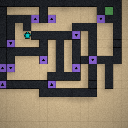
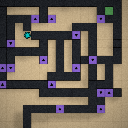
foo

Changed region(s): [[0.0938, 0.625, 0.9688, 1.0], [0.1875, 0.25, 0.25, 0.3125]]

diff --git a/public/maze-engine.js b/public/maze-engine.js
@@ -2461,6 +2461,44 @@
       );
     }
 
+    function weightlessClusterShouldContinueSliding(
+      state,
+      members,
+      gateState,
+      orangeButtonsPressed
+    ) {
+      const memberSet = new Set(members);
+      let hasIceSlideContact = false;
+
+      for (const member of members) {
+        const x = state.actorX[member];
+        const y = state.actorY[member];
+        const elevation = actorElevation(state, member);
+
+        if (isIceOrHole(state, x, y, elevation, gateState, orangeButtonsPressed)) {
+          hasIceSlideContact = true;
+          continue;
+        }
+
+        if (terrainBlocksOnlyByIceSlope(state, x, y, elevation, gateState, orangeButtonsPressed)) {
+          hasIceSlideContact = true;
+          continue;
+        }
+
+        if (
+          terrainSupportsElevation(state, x, y, elevation, gateState, orangeButtonsPressed) ||
+          actorSupportSurfaceHeightsAt(state, x, y, memberSet, true).includes(elevation)
+        ) {
+          return false;
+        }
+      }
+
+      return (
+        hasIceSlideContact ||
+        weightlessClusterHasIceSlopeTransit(state, members, gateState, orangeButtonsPressed)
+      );
+    }
+
     function weightlessClusterStep(
       state,
       members,
@@ -3072,24 +3110,7 @@
           break;
         }
 
-        if (
-          !members.every((member) =>
-            isIceOrHole(
-              state,
-              state.actorX[member],
-              state.actorY[member],
-              actorElevation(state, member),
-              gateState,
-              orangeButtonsPressed
-            )
-          ) &&
-          !weightlessClusterHasIceSlopeTransit(
-            state,
-            members,
-            gateState,
-            orangeButtonsPressed
-          )
-        ) {
+        if (!weightlessClusterShouldContinueSliding(state, members, gateState, orangeButtonsPressed)) {
           break;
         }
       }
@@ -4455,6 +4476,35 @@
 
           if ((originalElevations[member] || 0) !== toElevation || shouldFallIntoHole) {
             const moveRecord = ensureDynamicMove(member, toElevation);
+
+            if (
+              !shouldFallIntoHole &&
+              Array.isArray(moveRecord.path) &&
+              moveRecord.path.length > 0
+            ) {
+              const pathEnd = moveRecord.path[moveRecord.path.length - 1];
+
+              if (
+                pathEnd &&
+                pathEnd.x === state.actorX[member] &&
+                pathEnd.y === state.actorY[member] &&
+                pathEnd.elevation !== toElevation
+              ) {
+                if (typeof moveRecord.pathEndElevation !== "number") {
+                  moveRecord.pathEndElevation = pathEnd.elevation;
+                }
+
+                appendPathPoints(moveRecord.path, [
+                  {
+                    x: state.actorX[member],
+                    y: state.actorY[member],
+                    elevation: toElevation
+                  }
+                ]);
+                moveRecord.pathControlsElevation = true;
+              }
+            }
+
             moveRecord.toRemoved = shouldFallIntoHole;
           }
 

diff --git a/tests/maze-engine.test.js b/tests/maze-engine.test.js
@@ -674,7 +674,60 @@ function createState(playData) {
     { x: 2, y: 0, elevation: 2 },
     { x: 3, y: 0, elevation: 2 },
     { x: 4, y: 0, elevation: 2 },
-    { x: 5, y: 0, elevation: 2 }
+    { x: 5, y: 0, elevation: 2 },
+    { x: 5, y: 0, elevation: 1 }
+  ]);
+  assert.equal(boxMoves[0].pathEndElevation, 2);
+}
+
+{
+  const terrain = [[
+    wallStack(1),
+    wallStack(1),
+    iceBlockLayer(0),
+    iceBlockLayer(0),
+    iceSlopeOnIceBlockLayer("right", 1),
+    {
+      type: "ice_block",
+      layers: [
+        { type: "ice_block", elevation: 0 },
+        { type: "ice_block", elevation: 1 }
+      ]
+    },
+    iceBlockLayer(0),
+    iceBlockLayer(0),
+    iceBlockLayer(0),
+    iceBlockLayer(0)
+  ]];
+  const { engine, state } = createState({
+    width: 10,
+    height: 1,
+    terrain,
+    actors: [
+      { type: "player", x: 0, y: 0, elevation: 1, removed: false },
+      { type: "weightless_box", groupId: "M0", x: 1, y: 0, elevation: 1, removed: false },
+      { type: "weightless_box", groupId: "M0", x: 2, y: 0, elevation: 1, removed: false },
+      { type: "weightless_box", groupId: "M0", x: 3, y: 0, elevation: 1, removed: false }
+    ]
+  });
+
+  const result = engine.move(state, 1, 0);
+  const boxMoves = result.moves.filter((move) => move.actorType === "weightless_box");
+
+  assert.equal(result.moved, true);
+  assert.deepEqual(boxMoves.map((move) => [move.toX, move.toElevation]), [
+    [6, 1],
+    [7, 1],
+    [8, 1]
+  ]);
+  assert.deepEqual(boxMoves[0].path, [
+    { x: 1, y: 0, elevation: 1 },
+    { x: 2, y: 0, elevation: 2 },
+    { x: 3, y: 0, elevation: 2 },
+    { x: 4, y: 0, elevation: 2 },
+    { x: 5, y: 0, elevation: 2 },
+    { x: 6, y: 0, elevation: 2 },
+    { x: 6, y: 0, elevation: 1 }
   ]);
   assert.equal(boxMoves[0].pathEndElevation, 2);
 }
@@ -717,7 +770,8 @@ function createState(playData) {
     { x: 2, y: 0, elevation: 2 },
     { x: 3, y: 0, elevation: 2 },
     { x: 4, y: 0, elevation: 2 },
-    { x: 5, y: 0, elevation: 2 }
+    { x: 5, y: 0, elevation: 2 },
+    { x: 5, y: 0, elevation: 1 }
   ]);
   assert.equal(boxMoves[0].pathEndElevation, 2);
 }